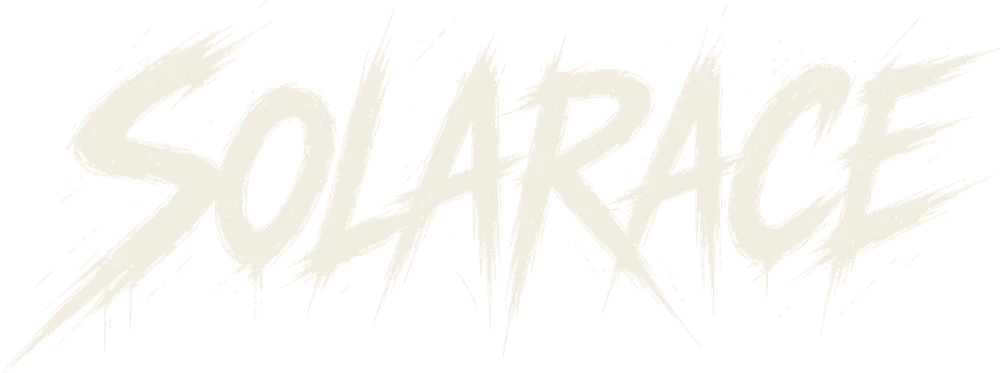
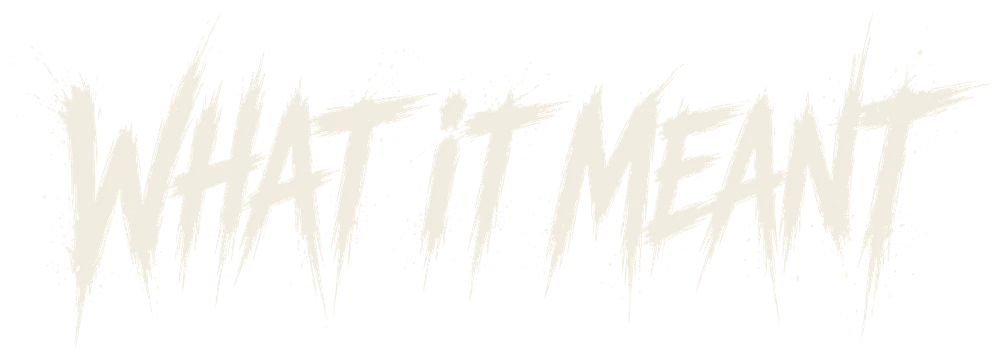
Drums-only preprod, What It Meant rename, Dirty Talk session, brand gallery

Changed region(s): [[0.031, 0.0919, 0.992, 0.9192], [0.651, 0.766, 0.682, 0.8273]]

diff --git a/data.js b/data.js
@@ -464,13 +464,15 @@ window.WBA_DATA = (() => {
    }
   };
   /* Big Bang original = band demo Rob linked Nov 10, 2026 (t113u). Not a Suno demo, so suno stays "unknown". */
-  MEDIA["big-bang"] = {"main": {"name": "Big Bang.wav", "stream": "https://www.dropbox.com/scl/fi/rjhbpt5ug3njp4nuttm0j/Big-Bang.wav?rlkey=mfz8iyqezb03wrbedinsu39a5&raw=1", "url": "https://www.dropbox.com/scl/fi/rjhbpt5ug3njp4nuttm0j/Big-Bang.wav?rlkey=mfz8iyqezb03wrbedinsu39a5&dl=1", "view": "https://www.dropbox.com/scl/fi/rjhbpt5ug3njp4nuttm0j/Big-Bang.wav?rlkey=mfz8iyqezb03wrbedinsu39a5&dl=0", "note": "band demo (not Suno)"}};
+  MEDIA["big-bang"] = {"main": {"name": "Big Bang.wav", "stream": "https://www.dropbox.com/scl/fi/rjhbpt5ug3njp4nuttm0j/Big-Bang.wav?rlkey=mfz8iyqezb03wrbedinsu39a5&raw=1", "url": "https://www.dropbox.com/scl/fi/rjhbpt5ug3njp4nuttm0j/Big-Bang.wav?rlkey=mfz8iyqezb03wrbedinsu39a5&dl=1", "view": "https://www.dropbox.com/scl/fi/rjhbpt5ug3njp4nuttm0j/Big-Bang.wav?rlkey=mfz8iyqezb03wrbedinsu39a5&dl=0"}};
   MEDIA["just-a-beautiful-mess"] = {"main": {"name": "Just A Beautiful Mess.wav", "stream": "https://www.dropbox.com/scl/fo/dqya7gic678zvxo85vznd/AL7UDr2luZ24VUDMQIAusy8/Just%20A%20Beautiful%20Mess.wav?raw=1&rlkey=uknwsbj7gwhoqbh3m6d43fu6t", "url": "https://www.dropbox.com/scl/fo/dqya7gic678zvxo85vznd/AL7UDr2luZ24VUDMQIAusy8/Just%20A%20Beautiful%20Mess.wav?dl=1&rlkey=uknwsbj7gwhoqbh3m6d43fu6t", "view": "https://www.dropbox.com/scl/fo/dqya7gic678zvxo85vznd/AL7UDr2luZ24VUDMQIAusy8/Just%20A%20Beautiful%20Mess.wav?dl=0&rlkey=uknwsbj7gwhoqbh3m6d43fu6t"}, "inst": {"name": "Just A Beautiful Mess Inst.wav", "url": "https://www.dropbox.com/scl/fo/dqya7gic678zvxo85vznd/AMFjz94DyT0kqR_ith4sP98/Just%20A%20Beautiful%20Mess%20Inst.wav?dl=1&rlkey=uknwsbj7gwhoqbh3m6d43fu6t", "view": "https://www.dropbox.com/scl/fo/dqya7gic678zvxo85vznd/AMFjz94DyT0kqR_ith4sP98/Just%20A%20Beautiful%20Mess%20Inst.wav?dl=0&rlkey=uknwsbj7gwhoqbh3m6d43fu6t"}, "click": {"name": "Just A Beautiful Mess Click.mp3", "url": "https://www.dropbox.com/scl/fo/dqya7gic678zvxo85vznd/ANM5Mt11s-vn8bOvzYjK4Ug/Just%20A%20Beautiful%20Mess%20Click.mp3?dl=1&rlkey=uknwsbj7gwhoqbh3m6d43fu6t", "view": "https://www.dropbox.com/scl/fo/dqya7gic678zvxo85vznd/ANM5Mt11s-vn8bOvzYjK4Ug/Just%20A%20Beautiful%20Mess%20Click.mp3?dl=0&rlkey=uknwsbj7gwhoqbh3m6d43fu6t"}, "logic": {"name": "Just A Beautiful Mess.logicx", "url": "https://www.dropbox.com/scl/fo/dqya7gic678zvxo85vznd/AFpZC-1bJDWAb-k9pHaZiik/Just%20A%20Beautiful%20Mess.logicx?dl=1&rlkey=uknwsbj7gwhoqbh3m6d43fu6t", "view": "https://www.dropbox.com/scl/fo/dqya7gic678zvxo85vznd/AFpZC-1bJDWAb-k9pHaZiik/Just%20A%20Beautiful%20Mess.logicx?dl=0&rlkey=uknwsbj7gwhoqbh3m6d43fu6t", "mb": 341}};
 
   /* Nov 11, 2026 (Rob t115u): new pre-production bounces in /EMO/PRE PRODUCTION replace older media.
      Getaway Theme + Dirty Talk = new versions ("Dirty Talk2" files; no Dirty Talk Logic session yet). Moon + Big Bang now bounced (Big Bang.mp3 replaces the band demo WAV). */
   MEDIA["the-getaway-theme"] = {"main": {"name": "The Getaway Theme.mp3", "url": "https://www.dropbox.com/scl/fo/dqya7gic678zvxo85vznd/AHRp-ipSbTk9mUinO_wVLIc/The%20Getaway%20Theme.mp3?dl=1&rlkey=uknwsbj7gwhoqbh3m6d43fu6t", "view": "https://www.dropbox.com/scl/fo/dqya7gic678zvxo85vznd/AHRp-ipSbTk9mUinO_wVLIc/The%20Getaway%20Theme.mp3?dl=0&rlkey=uknwsbj7gwhoqbh3m6d43fu6t", "stream": "https://www.dropbox.com/scl/fo/dqya7gic678zvxo85vznd/AHRp-ipSbTk9mUinO_wVLIc/The%20Getaway%20Theme.mp3?raw=1&rlkey=uknwsbj7gwhoqbh3m6d43fu6t"}, "inst": {"name": "The Getaway Theme Inst.mp3", "url": "https://www.dropbox.com/scl/fo/dqya7gic678zvxo85vznd/AH9lpo9ULO_PanjWHj0Yb8k/The%20Getaway%20Theme%20Inst.mp3?dl=1&rlkey=uknwsbj7gwhoqbh3m6d43fu6t", "view": "https://www.dropbox.com/scl/fo/dqya7gic678zvxo85vznd/AH9lpo9ULO_PanjWHj0Yb8k/The%20Getaway%20Theme%20Inst.mp3?dl=0&rlkey=uknwsbj7gwhoqbh3m6d43fu6t"}, "click": {"name": "The Getaway Theme Click.mp3", "url": "https://www.dropbox.com/scl/fo/dqya7gic678zvxo85vznd/AOBy6IHTMfnlEq5IM3R9Dko/The%20Getaway%20Theme%20Click.mp3?dl=1&rlkey=uknwsbj7gwhoqbh3m6d43fu6t", "view": "https://www.dropbox.com/scl/fo/dqya7gic678zvxo85vznd/AOBy6IHTMfnlEq5IM3R9Dko/The%20Getaway%20Theme%20Click.mp3?dl=0&rlkey=uknwsbj7gwhoqbh3m6d43fu6t"}, "logic": {"name": "The Getaway Theme.logicx", "url": "https://www.dropbox.com/scl/fo/dqya7gic678zvxo85vznd/AIzzfbQg6N_E0M0BlbRWfd0/The%20Getaway%20Theme.logicx?dl=1&rlkey=uknwsbj7gwhoqbh3m6d43fu6t", "view": "https://www.dropbox.com/scl/fo/dqya7gic678zvxo85vznd/AIzzfbQg6N_E0M0BlbRWfd0/The%20Getaway%20Theme.logicx?dl=0&rlkey=uknwsbj7gwhoqbh3m6d43fu6t", "mb": 281}};
   MEDIA["dirty-talk"] = {"main": {"name": "Dirty Talk2.mp3", "url": "https://www.dropbox.com/scl/fo/dqya7gic678zvxo85vznd/AO0hmmRhvXLI3S6Hzpunb0M/Dirty%20Talk2.mp3?dl=1&rlkey=uknwsbj7gwhoqbh3m6d43fu6t", "view": "https://www.dropbox.com/scl/fo/dqya7gic678zvxo85vznd/AO0hmmRhvXLI3S6Hzpunb0M/Dirty%20Talk2.mp3?dl=0&rlkey=uknwsbj7gwhoqbh3m6d43fu6t", "stream": "https://www.dropbox.com/scl/fo/dqya7gic678zvxo85vznd/AO0hmmRhvXLI3S6Hzpunb0M/Dirty%20Talk2.mp3?raw=1&rlkey=uknwsbj7gwhoqbh3m6d43fu6t"}, "inst": {"name": "Dirty Talk2 Inst.mp3", "url": "https://www.dropbox.com/scl/fo/dqya7gic678zvxo85vznd/AD1Ts60bbIsFpSWSgkQgJcA/Dirty%20Talk2%20Inst.mp3?dl=1&rlkey=uknwsbj7gwhoqbh3m6d43fu6t", "view": "https://www.dropbox.com/scl/fo/dqya7gic678zvxo85vznd/AD1Ts60bbIsFpSWSgkQgJcA/Dirty%20Talk2%20Inst.mp3?dl=0&rlkey=uknwsbj7gwhoqbh3m6d43fu6t"}, "click": {"name": "Dirty Talk2 Click.mp3", "url": "https://www.dropbox.com/scl/fo/dqya7gic678zvxo85vznd/AHlIFZnXVYuLhVHpvHaoxJM/Dirty%20Talk2%20Click.mp3?dl=1&rlkey=uknwsbj7gwhoqbh3m6d43fu6t", "view": "https://www.dropbox.com/scl/fo/dqya7gic678zvxo85vznd/AHlIFZnXVYuLhVHpvHaoxJM/Dirty%20Talk2%20Click.mp3?dl=0&rlkey=uknwsbj7gwhoqbh3m6d43fu6t"}};
+  /* Dirty Talk Logic session uploaded Nov 11, 2026 ~2:52 AM CT (size stable at 1,336,510,723 bytes across 3 checks); dl=1 zips the .logicx folder */
+  MEDIA["dirty-talk"].logic = {"name": "Dirty Talk.logicx", "url": "https://www.dropbox.com/scl/fo/dqya7gic678zvxo85vznd/AN86NJBDBc2DJWpHmKOyoZc/Dirty%20Talk.logicx?dl=1&rlkey=uknwsbj7gwhoqbh3m6d43fu6t", "view": "https://www.dropbox.com/scl/fo/dqya7gic678zvxo85vznd/AN86NJBDBc2DJWpHmKOyoZc/Dirty%20Talk.logicx?dl=0&rlkey=uknwsbj7gwhoqbh3m6d43fu6t", "mb": 1337};
   MEDIA["moon"] = {"main": {"name": "Moon.mp3", "url": "https://www.dropbox.com/scl/fo/dqya7gic678zvxo85vznd/AHda2aLKlmbFo2pngcE0Qmo/Moon.mp3?dl=1&rlkey=uknwsbj7gwhoqbh3m6d43fu6t", "view": "https://www.dropbox.com/scl/fo/dqya7gic678zvxo85vznd/AHda2aLKlmbFo2pngcE0Qmo/Moon.mp3?dl=0&rlkey=uknwsbj7gwhoqbh3m6d43fu6t", "stream": "https://www.dropbox.com/scl/fo/dqya7gic678zvxo85vznd/AHda2aLKlmbFo2pngcE0Qmo/Moon.mp3?raw=1&rlkey=uknwsbj7gwhoqbh3m6d43fu6t"}, "inst": {"name": "Moon Inst.mp3", "url": "https://www.dropbox.com/scl/fo/dqya7gic678zvxo85vznd/AN3vKK4ZLMz8DxMo7VClaUs/Moon%20Inst.mp3?dl=1&rlkey=uknwsbj7gwhoqbh3m6d43fu6t", "view": "https://www.dropbox.com/scl/fo/dqya7gic678zvxo85vznd/AN3vKK4ZLMz8DxMo7VClaUs/Moon%20Inst.mp3?dl=0&rlkey=uknwsbj7gwhoqbh3m6d43fu6t"}, "click": {"name": "Moon Click.mp3", "url": "https://www.dropbox.com/scl/fo/dqya7gic678zvxo85vznd/AK3f2nxQpIjiNMvr0D-tiuU/Moon%20Click.mp3?dl=1&rlkey=uknwsbj7gwhoqbh3m6d43fu6t", "view": "https://www.dropbox.com/scl/fo/dqya7gic678zvxo85vznd/AK3f2nxQpIjiNMvr0D-tiuU/Moon%20Click.mp3?dl=0&rlkey=uknwsbj7gwhoqbh3m6d43fu6t"}, "logic": {"name": "Moon.logicx", "url": "https://www.dropbox.com/scl/fo/dqya7gic678zvxo85vznd/AK1pjPMERofFA9fvF-dFDbU/Moon.logicx?dl=1&rlkey=uknwsbj7gwhoqbh3m6d43fu6t", "view": "https://www.dropbox.com/scl/fo/dqya7gic678zvxo85vznd/AK1pjPMERofFA9fvF-dFDbU/Moon.logicx?dl=0&rlkey=uknwsbj7gwhoqbh3m6d43fu6t", "mb": 442}};
   MEDIA["big-bang"] = {"main": {"name": "Big Bang.mp3", "url": "https://www.dropbox.com/scl/fo/dqya7gic678zvxo85vznd/AJCJuAS61XIyRBdTp-7sVC0/Big%20Bang.mp3?dl=1&rlkey=uknwsbj7gwhoqbh3m6d43fu6t", "view": "https://www.dropbox.com/scl/fo/dqya7gic678zvxo85vznd/AJCJuAS61XIyRBdTp-7sVC0/Big%20Bang.mp3?dl=0&rlkey=uknwsbj7gwhoqbh3m6d43fu6t", "stream": "https://www.dropbox.com/scl/fo/dqya7gic678zvxo85vznd/AJCJuAS61XIyRBdTp-7sVC0/Big%20Bang.mp3?raw=1&rlkey=uknwsbj7gwhoqbh3m6d43fu6t"}, "inst": {"name": "Big Bang Inst.mp3", "url": "https://www.dropbox.com/scl/fo/dqya7gic678zvxo85vznd/AMlUDy8BTPc9Mh-BRszrVtY/Big%20Bang%20Inst.mp3?dl=1&rlkey=uknwsbj7gwhoqbh3m6d43fu6t", "view": "https://www.dropbox.com/scl/fo/dqya7gic678zvxo85vznd/AMlUDy8BTPc9Mh-BRszrVtY/Big%20Bang%20Inst.mp3?dl=0&rlkey=uknwsbj7gwhoqbh3m6d43fu6t"}, "click": {"name": "Big Bang Click.mp3", "url": "https://www.dropbox.com/scl/fo/dqya7gic678zvxo85vznd/AAJeyuwEYkhcdfoIJDwaaJ8/Big%20Bang%20Click.mp3?dl=1&rlkey=uknwsbj7gwhoqbh3m6d43fu6t", "view": "https://www.dropbox.com/scl/fo/dqya7gic678zvxo85vznd/AAJeyuwEYkhcdfoIJDwaaJ8/Big%20Bang%20Click.mp3?dl=0&rlkey=uknwsbj7gwhoqbh3m6d43fu6t"}, "logic": {"name": "Big Bang.logicx", "url": "https://www.dropbox.com/scl/fo/dqya7gic678zvxo85vznd/AJmER4R3lAhBxccL3n9hdQk/Big%20Bang.logicx?dl=1&rlkey=uknwsbj7gwhoqbh3m6d43fu6t", "view": "https://www.dropbox.com/scl/fo/dqya7gic678zvxo85vznd/AJmER4R3lAhBxccL3n9hdQk/Big%20Bang.logicx?dl=0&rlkey=uknwsbj7gwhoqbh3m6d43fu6t", "mb": 672}};
   /* Nov 11, 2026 (Rob t118u): new song Hollywood Has Fallen in /EMO/PRE PRODUCTION. */
@@ -480,7 +482,7 @@ window.WBA_DATA = (() => {
   const MEMBERS = ["Rob", "Gary", "Eddie", "Daniel", "Tony"];
 
   const PHASES = [
-    { id: "pre", name: "Pre-production", stages: ["Suno demo", "Logic import", "Drum demo", "Vocal demo", "Keys demo", "Click / guide"] },
+    { id: "pre", name: "Pre-production", stages: ["Suno demo", "Logic import", "Drum demo", "Click / guide"] }, /* Nov 11, 2026 (Rob): Vocal demo + Keys demo scratched; drums are the only demo before drum tracking. */
     { id: "prod", name: "Production", stages: ["Drums", "Drum edits", "Bass", "Bass edits", "Guitar", "Guitar edits", "Keys", "Solos", "Vocals", "Vocal edits"] },
     { id: "post", name: "Post", stages: ["Mix", "Stereo masters", "Atmos mixes"] }
   ];
@@ -548,7 +550,7 @@ window.WBA_DATA = (() => {
     { id: "ticket-to-hell", title: "Ticket to Hell", suno: "done",
       demoFound: { file: "/TICKET TO HELL.wav", note: "Found at Dropbox root. Not in the shared Keepers folder, so no public link yet." },
       lyricsStatus: "present", lyrics: "Oh, you wanna wake up to your real life?\nWhat you take for granted\ncouldn’t wait to realize  \nIt cannot wait\nYou can’t sedate \nOr lean on the usual crutches \nYou’re so lucky \nthe suffering \nGot to be a little too much that…\nYou’ll take this bitter ride \nTo cut out your insides \nYou want your conscience clean?\nIt takes a ticket to hell\nAnd now you’re next in line \nCan’t fake it \nCan’t face it \nThe way you drain me out \nCan’t take it \nThe way it\nAll comes crashing down on me \nOh, you wanna see things as they really are?\nHope you’re prepared to take it \njust a little too far \nYou’ll take this bitter ride…\nHold on tight to your own ticket to hell\nI cannot numb my senses\nAnd only death can end this\nWhat is the price of a conscience?\nYou only pay when you’re conscious\nCan’t fake it \nCan’t face it \nThe way you drain me out \nCan’t take it \nThe way it\nAll comes crashing down on me " },
-    { id: "big-bang", title: "Big Bang", suno: "unknown",
+    { id: "big-bang", title: "Big Bang", suno: "done",
       demoFound: { file: "/Big Bang.wav", note: "Found at Dropbox root. Not in the shared Keepers folder, so no public link yet." },
       lyricsStatus: "present", lyrics: "Wakey wakey again \nAre the birds still circling your head? \nIt’s 3 AM 3 days from when \nYou were last online \nVERSE 2:\nYou gotta scar by your eye \nAnd you barely know why it missed you then \nAfter all it kissed you \nDid it really miss you?\nPRE-CHORUS\nBang, bang Bang\nBang, bang Bang\nCHORUS:\nWhen the train leaves the station \nI’m patient but I don’t see it coming back \nWhen the bottle is poured \nYou can call for one more\nI don’t see it coming back again \nPOST-CHORUS\nBang, bang Bang\nBang, bang Bang\nVERSE 3:\nLife takes you seriously \nEnough to tear you away from me \nAfter that, who’ll miss you? \nDid it really miss you? \nCHORUS:\nWhen the train leaves the station \nI’m patient but I don’t see it coming back \nWhen the bottle is poured \nYou can call for one more\nI don’t see it coming back again \nLAST CHORUS:\nWhen the life in your eyes \nFlickers out like a light   \nI don’t see it coming back \nWhen you wait for amends \nOn just one more chance \nI don’t see it coming back again \nOUTTRO\nBang, bang Bang\nBang, bang Bang\nBang, bang Bang" },
     { id: "meteorites", title: "Meteorites", suno: "done",
@@ -556,7 +558,7 @@ window.WBA_DATA = (() => {
       lyricsStatus: "present", lyrics: "Strange destination \nFamiliar signs \nI feel like I’ve been here  \nbut don’t know why \nStill meditation\nNo prying eyes \nIt’s either a dream or \nI’m not alive \nThis fate that you want\nThis place in your heart \nThis face of your love \nIt’s made who you are \nIt’s fading away\nIt’s fading away\nIt’s fading away\nIt’s fading away \nThis fate that you want\nThis place in your heart \nThis face of your love \nIt’s made who you are \nIt’s fading away\nIt’s fading away\nIt’s fading away\nI’m fading away " },
     { id: "out", title: "Out In The Silence", dropboxTitle: "Out In The Silence", suno: "done",
       lyricsStatus: "present", lyrics: "Somewhere in the striving \nNo, this pace has to change\nwhat if my chance was missed? \nThis parking lot is solace \nJust a moment to think \nHow did it come to this?\nThere’s nowhere to go, nowhere to go \nNowhere to go anymore\nThere’s nowhere to go, nowhere to go \nNowhere to go anymore\nOut in the silence \nYou’re safe at home\nyou’re catching dreams while I fight to stay awake all over the road  \nOut in the silence \nYou’re all just fine\nI’m racing over trying not to be one the you leave behind \nForced into in the darkness \nWith no place or a name \nWould I even be missed? \nThere’s nowhere to go, nowhere to go \nNowhere to go anymore\nNo matter whose side you’re on\nA pawn is a pawn is a pawn  \nYou ain’t nothing til you wear that crown \nthe only piece they won’t let go down \nOut in the silence \nYou’re safe at home\nyou’re catching dreams while I fight to stay awake all over the road  \nOut in the silence \nYou’re all just fine\nI’m racing over trying not to be one the you leave behind " },
-    { id: "solarace", title: "Solarace", suno: "done",
+    { id: "solarace", title: "What It Meant", dropboxTitle: "Solarace", suno: "done", /* renamed Nov 11, 2026 (Rob); Dropbox files keep the Solarace name */
       lyricsStatus: "present", lyrics: "Sometimes someone\nYou vaguely know\nIs the friend you need\nWhen feeling low\n\nYou missed the good times\nWhen things got better\nAnd you were gone too soon\nBut I’ll never forget what it meant to know you\n\nAnyway, anyone\nCould have been the one\nThe angel who was there\nWhen I was done\nBut it was you\n\nYou missed the good times\nWhen things got better\nAnd you were gone too soon\nBut I’ll never forget what it meant to know you\n\nGuardian, you never knew\nThe angel, it was you\nEvery day in despair\nSomehow, someway, you were there\n\nYou missed the good times\nWhen things got better\nAnd you were gone too soon\nBut I’ll never forget what it meant to know you" },
     { id: "down", title: "Down", suno: "done",
       instrumental: { url: "https://www.dropbox.com/scl/fo/dqya7gic678zvxo85vznd/AEqF_n_UdwmERNZT_IfKMwc?rlkey=uknwsbj7gwhoqbh3m6d43fu6t&dl=0&preview=Down%20Inst.mp3", file: "/EMO/PRE PRODUCTION/Down Inst.mp3", label: "Down Inst.mp3" },
@@ -568,7 +570,7 @@ window.WBA_DATA = (() => {
       demoFound: { file: "/EMO/Just a Beautiful Mess.mp3", note: "Older demo at /EMO root, not in a shared folder." },
       lyricsStatus: "present", lyrics: "It's always the same, babe\nI wake up next to you to another useless day\nIt never changes, dear\nI can't help the fact that we will fall apart if you stay here\n\nI cannot be held by your charm, not anymore\nYou're out of my head\nI cannot hold you in my arms, cause I need more\nThan Just a beautiful mess\n\nIt's always a chase, love\nI fought for you when I was not the one you're thinking of\nNow it is all said and done\nWhen the words fell from my lips I knew you're not the one\n\nI cannot be held by your charm, not anymore\nYou're out of my head\nI cannot hold you in my arms, cause I need more\nThan Just a beautiful mess\n\nSo what if we try if it's not meant to be (meant to be)\nthis mess of a life won't become part of me\n\nI cannot be held by your charm, not anymore\nYou're out of my head\nI cannot hold you in my arms, cause I need more\nThan Just a beautiful mess" },
     /* Added Nov 11, 2026 (Rob t118u). Lyrics verbatim from Rob. Suno status not stated, so unknown. */
-    { id: "hollywood-has-fallen", title: "Hollywood Has Fallen", suno: "unknown",
+    { id: "hollywood-has-fallen", title: "Hollywood Has Fallen", suno: "done",
       lyricsStatus: "present", lyrics: "Fading slowly\nYou won’t show me\nWho you really are\n(Left in the dark)\n\nOut of nowhere\nYea, I’ve been there\nAnd I can tell when I’m bein\n(Left in the dark)\n\nMind your manners\nWhen your mansion’s\nleft in the dark\nMind your manners\nWhen your mansion’s\nleft in the dark\nJust like the tents in the park\nWhen you’re left in the dark\nJust like the tents in the park\n\nThink I can’t see you? (It’s true)\nCan’t trust a silhouette (that’s you)\nI’m done defining (defining)\nWhat my eyes see through you\nIt’s nothing\n\nSole provider\nHides the lighter\nWhen it’s needed most\n\nMind your manners\nWhen your mansion\nIs left in the dark\nJust like the tents in the park, left in the dark\nlike the tents in the park, left in the dark\nlike the tents in the park, left in the dark" },
   ];
 
@@ -766,7 +768,7 @@ window.WBA_DATA = (() => {
   ];
 
   const STRUCK = new Set(["orion", "move-me", "why-should-i-be-surprised", "meteorites"]);
-  const META = {"when-the-love-runs-out": ["2009", "Drop C", "Moving Forward"], "edges-of-earth": ["2011", "Drop C", "Edges of Earth"], "opposite-day": ["2014", "E", "Opposite Day"], "find-yourself": ["2017", "E", "Find Yourself"], "the-alone": ["2010", "E", "The Alone"], "living-again": ["2020", "E", "Living Again"], "why-should-i-be-surprised": ["2013", "7-String B", "Why Should I Be Surprised"], "the-getaway-theme": ["2009", "Drop C", "City of Distant Sirens"], "wild-heart": ["2019", "E", "Wild"], "moon": ["2021", "E", "Moon"], "sweet-sweet-love": ["2011", "Drop C", "Sweet Sweet Love"], "dirty-talk": ["2021", "Drop C", "Dirty Talk"], "talk-in-my-sleep": ["2011", "7-String Bb", "Talk in My Sleep"], "future-tripper": ["2020", "E", "Future Tripper"], "analog-exe": ["2025", "E", "Analog.EXE"], "stuffed-animal": ["2021", "E", "Stuffed Animal"], "ticket-to-hell": ["2023", "Drop C", "Sour"], "big-bang": ["2021", "Drop C", "EggNog"], "meteorites": ["2022", "E", "Meteorites"], "out": ["2023", "E", "Out"], "solarace": ["2009", "Drop C", "Solarace"], "down": ["2022", "D", "Orion"], "on-the-rocks": ["2010", "7-String Bb", "On the Rocks"], "just-a-beautiful-mess": ["2008", "Drop D", "Just a Beautiful Mess"], "hollywood-has-fallen": ["TBD", "TBD", "Hollywood Has Fallen"]};
+  const META = {"when-the-love-runs-out": ["2009", "Drop C", "Moving Forward"], "edges-of-earth": ["2011", "Drop C", "Edges of Earth"], "opposite-day": ["2014", "E", "Opposite Day"], "find-yourself": ["2017", "E", "Find Yourself"], "the-alone": ["2010", "E", "The Alone"], "living-again": ["2020", "E", "Living Again"], "why-should-i-be-surprised": ["2013", "7-String B", "Why Should I Be Surprised"], "the-getaway-theme": ["2009", "Drop C", "City of Distant Sirens"], "wild-heart": ["2019", "E", "Wild"], "moon": ["2021", "E", "Moon"], "sweet-sweet-love": ["2011", "Drop C", "Sweet Sweet Love"], "dirty-talk": ["2021", "Drop C", "Dirty Talk"], "talk-in-my-sleep": ["2011", "7-String Bb", "Talk in My Sleep"], "future-tripper": ["2020", "E", "Future Tripper"], "analog-exe": ["2025", "E", "Analog.EXE"], "stuffed-animal": ["2021", "E", "Stuffed Animal"], "ticket-to-hell": ["2023", "Drop C", "Sour"], "big-bang": ["2021", "Drop C", "EggNog"], "meteorites": ["2022", "E", "Meteorites"], "out": ["2023", "E", "Out"], "solarace": ["2009", "Drop C", "Solarace"], "down": ["2022", "D", "Orion"], "on-the-rocks": ["2010", "7-String Bb", "On the Rocks"], "just-a-beautiful-mess": ["2008", "Drop D", "Just a Beautiful Mess"], "hollywood-has-fallen": ["2020", "7-String Bb", "Hollywood Has Fallen"]};
   for (let i = songs.length - 1; i >= 0; i--) if (STRUCK.has(songs[i].id)) songs.splice(i, 1);
   songs.forEach((s, i) => {
     s.n = i + 1;

diff --git a/app.js b/app.js
@@ -1,5 +1,6 @@
 (function () {
   const { MEMBERS, PHASES, VOX, SONGS, CHAT_LYRICS_NOTE, THEMES, ALBUM_SUMMARY, HERO_LINES } = window.WBA_DATA;
+  const NSTAGES = PHASES.reduce((n, p) => n + p.stages.length, 0);
   const SCORE = { 3: "Please yes", 2: "Sure", 1: "Don't feel it" };
   const LBL = { done: "Done (confirmed)", unc: "Unknown", tbd: "On hold — vocalist TBD" };
 
@@ -200,12 +201,12 @@
   function grid() {
     return `<div class="controls" role="search"><label class="sr" for="q">Search songs</label><input id="q" type="search" placeholder="Search songs…" autocomplete="off">
       <span role="group" aria-label="Show phase columns">${["pre", "prod", "post", "all"].map((id) =>
-        `<button class="btn" type="button" data-ph="${id}" aria-pressed="${id === "pre"}">${id === "all" ? "All 19 stages →" : PHASES.find((p) => p.id === id).name}</button>`
+        `<button class="btn" type="button" data-ph="${id}" aria-pressed="${id === "pre"}">${id === "all" ? `All ${NSTAGES} stages →` : PHASES.find((p) => p.id === id).name}</button>`
       ).join(" ")}</span>
       <button class="btn" type="button" id="csv">Download CSV</button>
       <span id="cnt" aria-live="polite"></span></div>
       ${LEG}
-      <p id="scrollnote" class="note" hidden>All 19 stages: the table scrolls sideways → song names stay pinned.</p>
+      <p id="scrollnote" class="note" hidden>All ${NSTAGES} stages: the table scrolls sideways → song names stay pinned.</p>
       <div class="gridwrap" tabindex="0" role="region" aria-label="Song by stage table">
       <table id="tbl"><caption class="sr">All songs by pipeline stage</caption>
       <thead><tr class="ph"><th class="song"></th><th class="score-col"></th>${PHASES.map((p) => `<th colspan="${p.stages.length}" class="${p.id} grp" data-c="${p.id}">${p.name}</th>`).join("")}</tr>
@@ -475,10 +476,31 @@
     ${["Pick the singles (cut the list → final tracklist)", "Vocalist search: brief, auditions, decision", "Exit Us cover art + single artwork", "Press photos (band + new singer)", "Release plan, dates, distributor", "Socials: handles, bios, posting calendar", "Video: lyric videos + one hero video", "Press kit / one-sheet (“The Alone” angle)", "Website + link-in-bio", "First merch run"].map((x) => `<li><b>${x}</b><span>Proposed</span></li>`).join("")}</ul></div>
     <div class="panel"><div class="badge">Proposed</div><div class="big" style="font-size:20px">Crossover goal</div><p class="lead" style="margin-top:8px">Younger singer, same alt-rock / emo-pop spine. Lean on “The Alone” listeners.</p></div></div>`;
 
-  const ART = `<div class="two"><div><p class="lead">Build everything around the Ash Wings logo: engraved wings, flame and ash tips, heavy geometric sans. Black, bone, oxblood. Hairline frames, angular cuts.</p>
+  /* Artwork / brand showcase (Nov 11, 2026): only existing site art. Lyric thumbs open the lyric card. */
+  function ART() {
+    const cards = (window.WBA_CARDS || []).map((c) => SONGS.find((x) => x.id === c.id)).filter(Boolean).sort((a, b) => a.n - b.n);
+    const P = window.WBA_PALETTES || {};
+    const thumbs = cards.map((s) => {
+      const c = window.WBA_CARDS.find((x) => x.id === s.id);
+      return `<button type="button" class="bth" data-lyric="${esc(s.id)}" aria-haspopup="dialog" aria-label="Open the ${esc(s.title)} lyric card"><img src="assets/brand/th_${esc(s.id)}.webp" alt="" loading="lazy" width="216" height="288"><span class="bn">${String(s.n).padStart(2, "0")}</span><span class="bt">${esc(s.title)}</span><span class="bp" style="--g:${(P[c.palette] || {}).glow || "#888"}">${esc((P[c.palette] || {}).name || "")}</span></button>`;
+    }).join("");
+    return `<p class="lead">Every mark and concept piece in use on this site. Black, bone, oxblood; hairline frames; marks must hold up in pure black &amp; white.</p>
     <div class="sw"><div style="background:#0b0b0b;color:#F2EFE6">BLACK</div><div style="background:#F2EFE6">BONE #F2EFE6</div><div style="background:#6E0F14;color:#F2EFE6">OXBLOOD #6E0F14</div></div>
-    <ul class="list"><li><b>Logo</b><span>Ash Wings — never redrawn or scripted</span></li><li><b>Type</b><span>Heavy geometric sans, uppercase</span></li><li><b>Line</b><span>Hairline frames, corner marks</span></li><li><b>Accent</b><span>Oxblood, used sparingly</span></li><li><b>Test</b><span>Must work in pure black &amp; white</span></li></ul></div>
-    <div><img class="logo-sm" src="assets/logo.jpg" alt="Ash Wings logo, reference"><p class="note" style="margin-top:8px">Primary mark · use on white or bone.</p></div></div>`;
+    <h4 class="ph">Marks</h4>
+    <div class="brand-grid">
+      <figure class="bfig wide light"><img src="assets/brand/logo-ashwings.webp" alt="Wings Burn Away Ash Wings text logo" loading="lazy" width="960" height="540"><figcaption><b>Ash Wings logo</b><span>Primary text mark · never redrawn or scripted</span></figcaption></figure>
+      <figure class="bfig dark"><img class="em" src="assets/emblem-w.png" alt="Winged W monogram" loading="lazy" width="600" height="593"><figcaption><b>Winged W</b><span>Monogram emblem · desk-doodle simple</span></figcaption></figure>
+      <figure class="bfig dark"><img class="em" src="assets/emblem-ghost.png" alt="Ghost of Icarus hooded head emblem" loading="lazy" width="512" height="600"><figcaption><b>Ghost of Icarus</b><span>Outlined-hood head emblem</span></figcaption></figure>
+    </div>
+    <h4 class="ph">Concept art</h4>
+    <div class="brand-grid two-up">
+      <figure class="bfig dark"><img src="assets/brand/banner.webp" alt="Banner art: the Ghost of Icarus standing on the EXIT US road under a flaming sky" loading="lazy" width="960" height="540"><figcaption><b>Exit Us banner</b><span>Ghost of Icarus on the road · top of this site</span></figcaption></figure>
+      <figure class="bfig dark"><img src="assets/brand/wagon.webp" alt="Burned-out retro-futurist finned station wagon on a cracked wasteland" loading="lazy" width="960" height="540"><figcaption><b>The burned wagon</b><span>Retro-futurist concept · the future as the '50s saw it, wrecked</span></figcaption></figure>
+    </div>
+    <h4 class="ph">Lyric card art · ${cards.length} cards</h4>
+    <p class="note">One landscape per song from the same burned-out world. Tap a card to open its lyrics.</p>
+    <div class="bthumbs">${thumbs}</div>`;
+  }
 
   function themeStats() {
     const counts = {};
@@ -532,13 +554,13 @@
 
   const open = new Set(["all", "playlist", "songs"]);
   const SECS = () => [
-    { id: "all", t: "All songs — overview", m: `${SONGS.length} songs · 19 stages`, b: grid },
+    { id: "all", t: "All songs — overview", m: `${SONGS.length} songs · ${NSTAGES} stages`, b: grid },
     { id: "songs", t: "Song cards", m: `${SONGS.length} cards`, b: () => cards(reviews) },
     { id: "playlist", t: "Playlist", m: `${PLAYLIST.length} tracks · originals`, b: playlist },
     { id: "lyrics-overview", t: "Lyrical overview", m: `${SONGS.length} songs · ${Object.keys(THEMES || {}).length} themes`, b: lyricalOverview },
     ...PHASES.map((p) => ({ id: p.id, t: p.name, m: p.id === "pre" ? `Suno ${countDone("Suno demo")}/${SONGS.length} · Logic ${countDone("Logic import")}/${SONGS.length}` : p.id === "prod" ? "Vocals on hold" : "Unknown", b: () => phase(p) })),
     { id: "mkt", t: "Marketing", m: "10 proposed to-dos", b: () => MKT },
-    { id: "art", t: "Artwork / brand", m: "Ash Wings · Ink & Paper", b: () => ART }
+    { id: "art", t: "Artwork / brand", m: `Marks · concept art · ${(window.WBA_CARDS || []).length} lyric cards`, b: ART }
   ];
 
   /* ---------- Lyric cards: lazy faded backgrounds + modal ---------- */

diff --git a/styles.css b/styles.css
@@ -432,3 +432,28 @@ thead th[aria-sort=ascending] .arr,thead th[aria-sort=descending] .arr{opacity:1
 }
 @media(prefers-reduced-motion:reduce){.eq i,.pl.playing .pl-em{animation:none}}
 .dl small.muted{font-weight:400;font-size:11px;margin-left:4px}
+
+/* ARTWORK / BRAND showcase */
+.brand-grid{display:grid;grid-template-columns:2fr 1fr 1fr;gap:10px;margin:0 0 18px}
+.brand-grid.two-up{grid-template-columns:1fr 1fr}
+.bfig{margin:0;border:1px solid var(--ink);background:#fff;display:flex;flex-direction:column;position:relative;overflow:hidden}
+.bfig::before{content:"";position:absolute;top:0;left:0;width:40px;height:3px;background:var(--ox);z-index:1}
+.bfig img{display:block;width:100%;height:auto;aspect-ratio:16/9;object-fit:cover;background:#0b0b0b}
+.bfig.light img{background:#fff;object-fit:contain}
+.bfig .em{object-fit:contain;padding:18px;filter:drop-shadow(0 0 4px rgba(180,36,32,.9)) drop-shadow(0 0 10px rgba(110,15,20,.8))}
+.bfig.dark .em{aspect-ratio:auto;height:0;flex:1 1 auto;min-height:150px}
+.bfig figcaption{display:flex;flex-direction:column;gap:2px;padding:9px 12px;border-top:1px solid var(--ink);background:#fff}
+.bfig figcaption b{font:900 11px/1.2 var(--sans);letter-spacing:.12em;text-transform:uppercase}
+.bfig figcaption span{font-size:12px;color:var(--mute)}
+.bfig.dark{background:#0b0b0b}
+.bthumbs{display:grid;grid-template-columns:repeat(auto-fill,minmax(112px,1fr));gap:8px}
+.bth{all:unset;box-sizing:border-box;cursor:pointer;position:relative;display:block;border:1px solid var(--ink);background:#0b0b0b;overflow:hidden;aspect-ratio:3/4}
+.bth img{display:block;width:100%;height:100%;object-fit:cover;transition:transform .3s,opacity .3s;opacity:.92}
+.bth::after{content:"";position:absolute;inset:0;background:linear-gradient(180deg,rgba(0,0,0,0) 45%,rgba(0,0,0,.85))}
+.bth .bn{position:absolute;top:6px;left:7px;z-index:1;font:900 10px/1 var(--sans);color:var(--bone);letter-spacing:.1em;text-shadow:0 1px 3px #000}
+.bth .bt{position:absolute;left:7px;right:7px;bottom:16px;z-index:1;font:900 10px/1.15 var(--sans);text-transform:uppercase;color:var(--bone);letter-spacing:.04em}
+.bth .bp{position:absolute;left:7px;bottom:5px;z-index:1;font:700 8.5px/1 var(--body);color:var(--g);letter-spacing:.06em;text-transform:uppercase}
+.bth:hover img{transform:scale(1.05);opacity:1}
+.bth:focus-visible{outline:3px solid var(--ox);outline-offset:2px}
+@media(max-width:820px){.brand-grid{grid-template-columns:1fr 1fr}.brand-grid .wide{grid-column:1/-1}.brand-grid.two-up{grid-template-columns:1fr}}
+@media(max-width:420px){.bthumbs{grid-template-columns:repeat(3,1fr);gap:6px}}

diff --git a/index.html b/index.html
@@ -7,8 +7,8 @@
 <link rel="preconnect" href="https://fonts.googleapis.com">
 <link rel="preconnect" href="https://fonts.gstatic.com" crossorigin>
 <link href="https://fonts.googleapis.com/css2?family=Black+Ops+One&family=Special+Elite&display=swap" rel="stylesheet">
-<link rel="stylesheet" href="styles.css?v=202611110245">
-<link rel="stylesheet" href="lyric-cards.css?v=202611110245">
+<link rel="stylesheet" href="styles.css?v=202611110300">
+<link rel="stylesheet" href="lyric-cards.css?v=202611110300">
 </head>
 <body class="locked">
 
@@ -99,10 +99,10 @@
   <footer>Wings Burn Away · Exit Us · reviews and stage checks are shared with the band.</footer>
 </div>
 
-<script src="data.js?v=202611110245"></script>
-<script src="lyric-cards.js?v=202611110245"></script>
-<script src="storage.js?v=202611110245"></script>
-<script src="app.js?v=202611110245"></script>
+<script src="data.js?v=202611110300"></script>
+<script src="lyric-cards.js?v=202611110300"></script>
+<script src="storage.js?v=202611110300"></script>
+<script src="app.js?v=202611110300"></script>
 <script>
   document.getElementById("song-count-stat").textContent = window.WBA_DATA.SONGS.length;
 </script>
